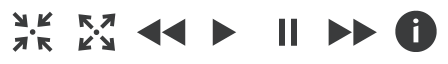
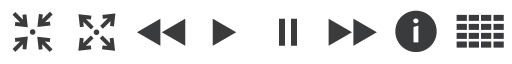
Fixed image backgrounds

Changed region(s): [[0.0, 0.1875, 0.5938, 0.8125], [0.625, 0.1562, 1.0, 0.8125]]

diff --git a/js/themes/simple/galleria.simple.css b/js/themes/simple/galleria.simple.css
@@ -166,6 +166,7 @@
 
 .galleria-fullscreen:hover,
 .galleria-play:hover,
+.galleria-showThumbs:hover,
 .galleria-previous:hover,
 .galleria-next:hover,
 .galleria-play.playing:hover,
@@ -200,6 +201,10 @@
 
 .galleria-play.playing {
     background-position: -128px 0 !important;
+}
+
+.galleria-showThumbs {
+	background-position: -224px 0 !important;
 }
 
 .galleria-info-link {
@@ -238,11 +243,12 @@
         .galleria-fullscreen,
         .galleria-previous,
         .galleria-next,
+        .galleria-showThumbs,
         .galleria-play,
         .galleria-play.playing,
         .galleria-fullscreen.open,
         .galleria-info-link {
             background: url('galleria-icons@2x.png') no-repeat 0 0;
-            background-size: 224px 32px;
+            background-size: 256px 32px;
         }
 }

diff --git a/js/themes/simple/galleria.simple.js b/js/themes/simple/galleria.simple.js
@@ -45,6 +45,7 @@ Galleria.addTheme({
             play = this.$('play'),
             next = this.$('next'),
             thumbnails = this.$('thumbnails-container'),
+            gallery_back = this.$('container'),
             showThumbs = this.$('showThumbs'),
             previous = this.$('previous'),
             click = touch ? 'touchstart' : 'click';
@@ -94,6 +95,7 @@ Galleria.addTheme({
 */
 
         fullscreen.click(function() {
+        	gallery_back.addClass('image-background');
             gallery.toggleFullscreen();
         });
 

diff --git a/functions/basics.php b/functions/basics.php
@@ -352,11 +352,6 @@ function bk_user_styles() {
     ?>
     
     <style type="text/css">
-    	.galleria-container,
-    	.galleria-controls {
-	    	background-color: <?php echo $background['color'] ?>;
-    	}
-    		
     	<?php if(of_get_option('bk_standard_icon_color') == 'white') { ?>
 	    	.galleria-fullscreen,
 			.galleria-play,
@@ -395,13 +390,24 @@ function bk_user_styles() {
 			        }
 			}
     	<?php } ?>
-        body {
-            <?php if($background['image']) {
-                echo "background-image: url(" . $background['image'] . ");";
-            } else {
-                echo "background-color:" . $background['color'] . ";";
-            } ?>
-        }
+    	
+        <?php if($background['image']) { ?>
+        	.galleria-container,
+	    	.galleria-controls {
+		    	background: transparent;
+		    }
+		    body,
+		    .image-background {
+			    background-image: url("<?php echo $background['image'] ?>");
+		    }
+        <?php } else { ?>
+        	body,
+        	.galleria-container,
+	    	.galleria-controls {
+		    	background-color: <?php echo $background['color'] ?>;
+	    	}
+    	<?php } ?>
+        	
         #header a {
             font-size: <?php echo $header['size']; ?>;
             font-family: <?php echo "'".$header['face']."'"; ?>;
